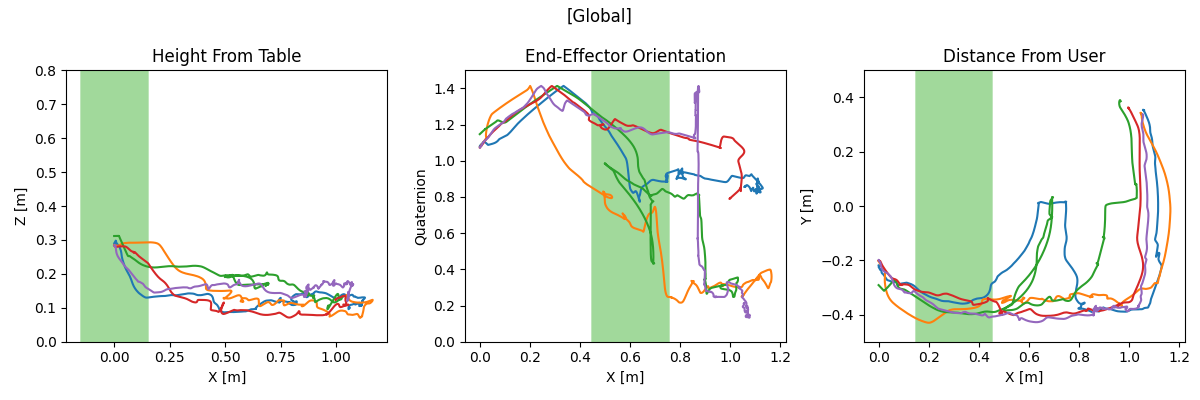
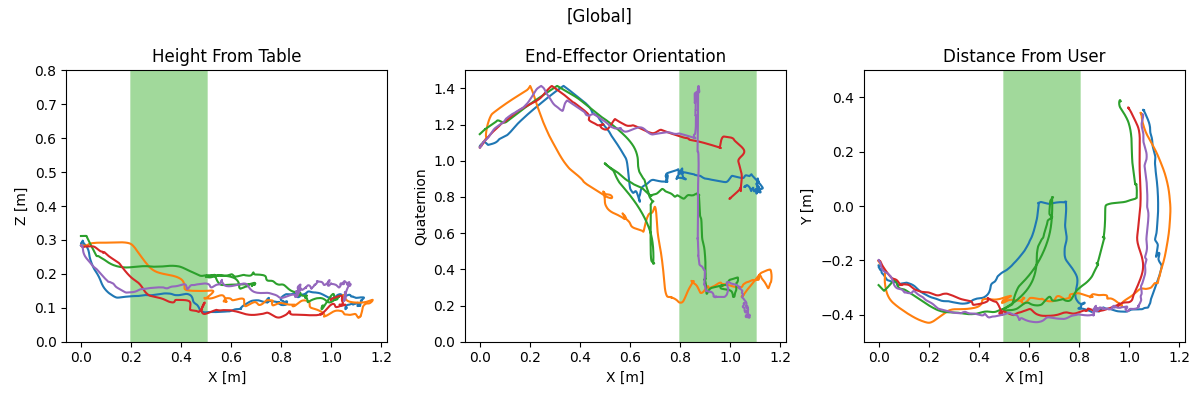
marginsPlot

diff --git a/utils.py b/utils.py
@@ -18,12 +18,6 @@ R_desire = np.array([[ 7.44356863e-01,  6.66865793e-01,  3.49696414e-02],
                     [ 6.66166262e-01, -7.45177629e-01,  3.05419708e-02],
                     [ 4.64259900e-02,  5.61469737e-04, -9.98921575e-01]])
 
-########## margins in workspace ##########
-x_margin_1 = 0.15
-x_margin_2 = 0.45
-x_margin_3 = 0.75
-y_margin = 0.15
-
 
 ########## Serial Comm. with Arduino ##########
 def send_serial(comm, output):

diff --git a/plot.py b/plot.py
@@ -8,6 +8,11 @@ from scipy import interpolate
 
 from utils import *
 
+########## margins in workspace ##########
+ee_home_x = 0.2
+x_margin_1 = 0.5
+x_margin_2 = 0.8
+x_margin_3 = 1.1
 
 Panda = TrajectoryClient()
 
@@ -55,7 +60,7 @@ for method in ["none", "GUI", "local", "global"]:
     Quat[method] = quat
 
     ### plot user demonstrations: none ###
-    ee_home_x = -0.15
+
     for user_n in range(1, n+1):
 
         # height

diff --git a/record_demo.py b/record_demo.py
@@ -58,11 +58,11 @@ alpha = 0.4
 beta = 0.8
 max_press = 3.2
 
-# # margins in robot workspace
-# x_margin_1 = 0.2
-# x_margin_2 = 0.55
-# x_margin_3 = 0.75
-# y_margin = 0.15
+# margins in robot workspace
+x_margin_1 = 0.15
+x_margin_2 = 0.45
+x_margin_3 = 0.75
+y_margin = 0.15
 
 while not shutdown:
     # read robot states
